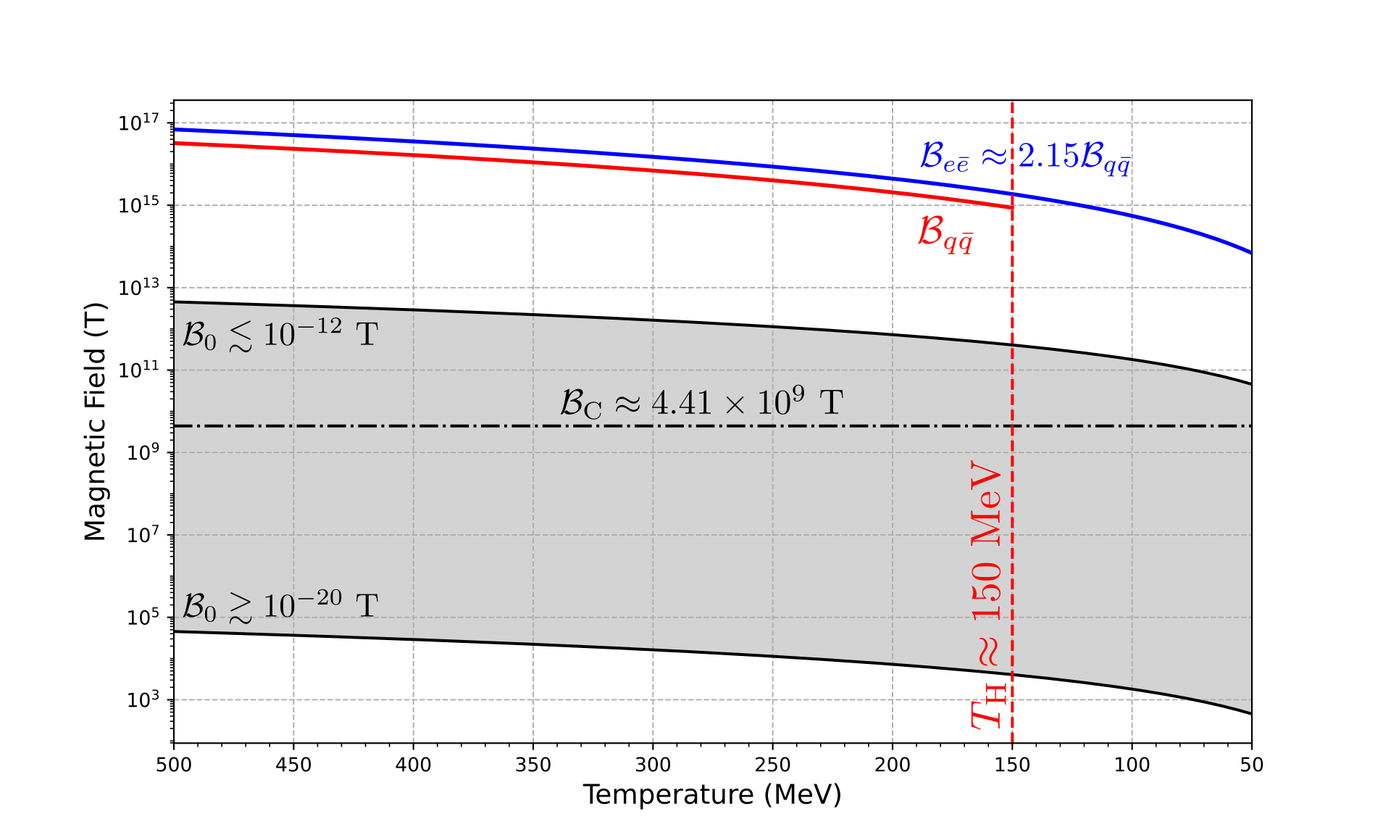
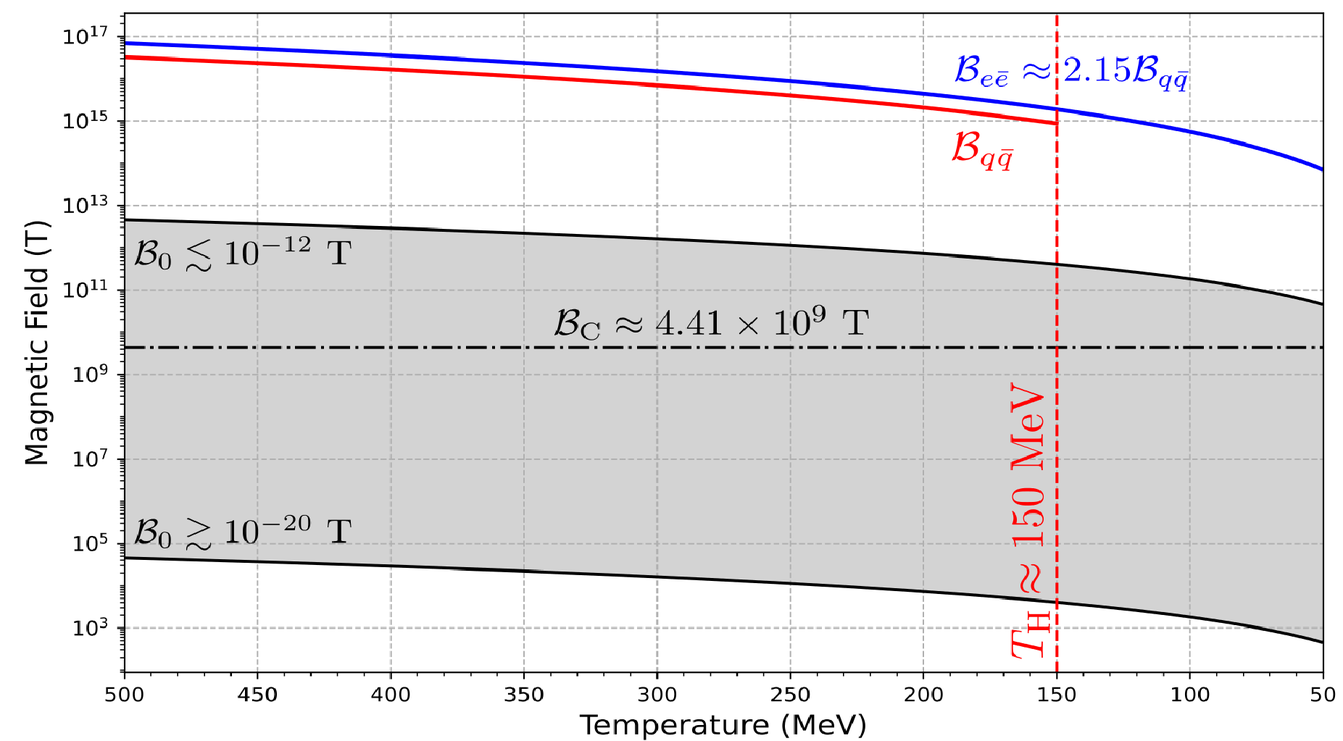
Updates from Overleaf

diff --git a/short-note-qcd.tex b/short-note-qcd.tex
@@ -51,7 +51,7 @@
 \newcommand*{\beqn}{\begin{equation}}
 \newcommand*{\eeqn}{\end{equation}}
 \newcommand{\beql}[1]{\begin{equation} \label{#1}}
-\newcommand{\eeql}[1]{\label{#1} \end{equation} }  
+\newcommand{\eeql}[1]{\label{#1} \end{equation} } 
 \newcommand{\req}[1]{Eq.\,(\ref{#1})}
 \newcommand{\rf}[1]{Fig.\,{\ref{#1}}}
 \newcommand{\rt}[1]{Table~{\ref{#1}}}
@@ -60,8 +60,8 @@
 \newcommand{\rapp}[1]{Appendix~{\ref{#1}}}
 \newcommand{\mydoi}[2]{\href{http://dx.doi.org/#2}{#1}}
 \newcommand{\E}{\mathrm{e}}
-\newcommand{\ie}{{\em i.e.\/}}  
-\newcommand{\eg}{{\em e.g.\/}}  
+\newcommand{\ie}{{\em i.e.\/}} 
+\newcommand{\eg}{{\em e.g.\/}} 
 \newcommand{\ms}[1]{\rule[-#1mm]{0mm}{0mm}}
 \newcommand{\grad}{\operatorname{grad}}
 \newcommand{\diag}{\mathrm{diag}}
@@ -90,20 +90,20 @@
 \begin{document}
 
 \title{Short note on spin magnetization in QGP
-    }
+ }
 
 \author{
-    Andrew~Steinmetz${}^1$\orc{\orcAJS},
-    Johann~Rafelski${}^1$\orc{\orcJR}
-    }
+ Andrew~Steinmetz${}^1$\orc{\orcAJS},
+ Johann~Rafelski${}^1$\orc{\orcJR}
+ }
 
 \institute{
-    ${}^1$Department of Physics, The University of Arizona, Tucson, AZ, 85721, USA\\
-    }
+ ${}^1$Department of Physics, The University of Arizona, Tucson, AZ, 85721, USA\\
+ }
 
 \abstract{
-    We outline the theory of spin QGP (quark-gluon plasma) magnetization. We explore the primordial epoch shortly after the Big-Bang within temperatures of \(150\) MeV to \(500\) MeV, also of interest to laboratory experiments. The ferro-magnetized fermion gas we consider consists of (light) quarks in laboratory QGP, and also leptons (electrons) for the case of the primordial Universe.  We show that a fully spin-polarized up-quark gas could generate cosmic magnetic fields of approximately \(10^{16}\) Tesla.  We suggest that even a weakly spin-polarized  gas would have a profound impact on properties of primordial Universe which can be explored in laboratory QGP experiments. We present details of how  the magnetization is obtained using a grand partition function approach. This requires evaluating slowly convergent magnetized Fermi-Dirac integrals. 
-    }
+ We outline the theory of spin QGP (quark-gluon plasma) magnetization. We explore the primordial epoch shortly after the Big-Bang within temperatures of \(150\) MeV to \(500\) MeV, also of interest to laboratory experiments. The ferro-magnetized fermion gas we consider consists of (light) quarks in laboratory QGP, and also leptons (electrons) for the case of the primordial Universe. We show that a fully spin-polarized up-quark gas could generate cosmic magnetic fields of approximately \(10^{16}\) Tesla. We suggest that even a weakly spin-polarized gas would have a profound impact on properties of primordial Universe which can be explored in laboratory QGP experiments. We present details of how the magnetization is obtained using a grand partition function approach. This requires evaluating slowly convergent magnetized Fermi-Dirac integrals. 
+ }
 
 \maketitle
 %%%%%%%%%%%%%%%%%%%%%%%%
@@ -112,54 +112,57 @@
 \section{Introduction}
 \label{sec:introduction}
 %%%%%%%%%%%%%%%%%%%%%%%%
-The color deconfined QGP (quark-gluon plasma) has been studied in laboratory experiments now for several decades; this state of matter  existed in the Universe for nearly \(25~\mathrm{\mu s}\) after the Big-Bang~\cite{Rafelski:2019twp,Rafelski:2023emw,Rafelski:2024fej}. However, there are differences between the QGP produced in the early Universe versus QGP produced in laboratory heavy-ion collisions. Of greatest importance is the presence of the lepton abundance in the early Universe. Laboratory formed QGP drops are too short-lived and too small to support a comparable high-density of leptons. Furthermore, analysis of particle production in laboratory experiments shows~\cite{Letessier:2005qe} how at highest available collisions energies we explore QGP in relatively low baryon density, near to the condition of primordial Universe. On the other hand, at lower collision energies, we study baryon-rich conditions also expected to be present in astrophysical compact objects~\cite{Ghosh:2025sjn}. At CERN laboratory in Geneva both these reaction energy limits are explored in ongoing ALICE, CMS, and NA61,  experiments, respectively. 
+
  
+Recently we have explored the possibility that cosmic magnetism originates in spin polarization of electron-positron pairs~\cite{Steinmetz:2023nsc,Steinmetz:2023ucp} near to Big-Bang Nucleosynthesis~\cite{Grayson:2023flr,Grayson:2024uwg} epoch. We now approach the possible role of light quark-antiquark pairs in the QGP (quark-gluon plasma) phase near to hadronization condition, pushing the possible source of magnetization further back in time to before matter hadronization. This is shown in Fig.~\ref{Figure_1} over the temperature range 50 to 500~MeV. The gray-shaded region bounded by black lines represents the allowed primordial magnetic field (PMF) range, obtained by scaling today’s intergalactic magnetic field bounds (\(\mathcal{B}_{0} = 10^{-20}-10^{-12}\)~T)~\cite{Planck:2015zrl,Jedamzik:2018itu}. For details see Ref.~\cite{Steinmetz:2023nsc}. 
 
-Recently we have explored the possibility that cosmic magnetism originates in spin polarization of electron-positron pairs~\cite{Steinmetz:2023nsc,Steinmetz:2023ucp} near to Big-Bang Nucleosynthesis~\cite{Grayson:2023flr,Grayson:2024uwg} epoch. We now approach the possible role of light quark-antiquark pairs in QGP phase near to hadronization condition, pushing the possible source of magnetization further back in time to before matter hadronization. This is shown in Fig.~\ref{Figure_1} over the temperature range 50 to 500~MeV. The gray-shaded region bounded by black lines represents the allowed primordial magnetic field (PMF) range, obtained by scaling today’s intergalactic magnetic field bounds (\(\mathcal{B}_{0} = 10^{-20}-10^{-12}\)~T)~\cite{Planck:2015zrl,Jedamzik:2018itu}. For details see Ref.~\cite{Steinmetz:2023nsc}. The black dash-dotted horizontal line marks the Schwinger critical field, \(\mathcal{B}_\mathrm{C}\approx4.41\times10^{9}~\mathrm{T}\). Superimposed are the maximum quark magnetization (red curve) and electron magnetization (blue curve) which are calculated below. The quark magnetization estimation ends at hadronization which is marked by the red dashed vertical line at \(T_\mathrm{H}\approx150\MeV\).
-
-\begin{figure}
+\begin{figure}%[b]
 \centerline{
-\includegraphics[width=1.0\columnwidth]{python/Figure_1.png}}
+\includegraphics[width=0.885\columnwidth]{python/Figure_1.png}}
 \caption{\label{Figure_1}Temperature dependence of several key magnetic field contributions in the early universe during the QGP era.}
 \end{figure}
 
-We now expand this effort consider the role of light quark magnetization in the primordial QGP Universe, focusing on the interplay between quarks, leptons, and magnetic fields. The presence of strong magnetic fields in the primordial QGP Universe could have significantly affected the equilibrium properties of Standard Model particles in the earliest moments after the Big-Bang~\cite{Durrer:2013pga,Subramanian:2015lua}. EM response of QGP is of considerable theoretical interest~\cite{Grayson:2022asf,Shovkovy:2022bnd,Ghosh:2024fkg} and such magnetic fields have long been thought to be connected to baryon asymmetry~\cite{Vachaspati:1991nm,Baym:1995fk}. Chiral magnetism in QGP has also been studied~\cite{Fukushima:2008xe,Boyarsky:2011uy,Bali:2011qj}.
+The black dash-dotted horizontal line in Fig.~\ref{Figure_1} marks the Schwinger critical field, \(\mathcal{B}_\mathrm{C}\approx4.41\times10^{9}~\mathrm{T}\). Superimposed are the maximum quark magnetization (red curve) and electron magnetization (blue curve) which are calculated below. The quark magnetization estimation ends well before hadronization which is marked by the red dashed vertical line at \(T_\mathrm{H}\approx150\MeV\). This is so since near to the phase transformation at \(T_\mathrm{H}\) much less magnetic heavy hadrons form. 
+
+We understand the primordial deconfined QGP phase of matter due to several decades of experimental effort; this new state of matter existed in the Universe for nearly \(25~\mathrm{\mu s}\) after the Big-Bang~\cite{Rafelski:2019twp,Rafelski:2023emw,Rafelski:2024fej}. However, there are differences between the QGP produced in the early Universe versus QGP produced in laboratory heavy-ion collisions. Of greatest importance is the presence of the lepton abundance in the early Universe. Laboratory formed QGP drops are too short-lived and too small to support a comparable high-density of leptons. The net baryon content of QGP-drops formed in laboratory experiments can also be vastly different from the early Universe condition where baryon excess over antibaryons is at nano-scale. A high QGP baryon content is found at relatively low heavy ion collision energies near to the presumed threshold for QGP formation~\cite{Letessier:2005qe}. In such typically fixed target (NA61 today) CERN experiments baryon-rich condition is explored, also expected to be present in astrophysical compact objects~\cite{Ghosh:2025sjn}. However, as the collision energy increases towards the highest available, the incoming nuclear valance quarks escape from the QGP drop: At the CERN-LHC created QGP-drops as observed by ALICE and CMS experiments relatively low net baryon density near to the condition prevailing in the primordial Universe is found~\cite{Letessier:2005qe}. 
+
+In this work we expand our prior spin magnetization study~\cite{Steinmetz:2023nsc,Steinmetz:2023ucp} to consider the role of light quark magnetization in the primordial QGP Universe, focusing on the interplay between quarks, leptons, and magnetic fields. The presence of strong magnetic fields in the primordial QGP Universe could have significantly affected the equilibrium properties of Standard Model particles in the earliest moments after the Big-Bang~\cite{Durrer:2013pga,Subramanian:2015lua}. EM response of QGP is of considerable theoretical interest~\cite{Grayson:2022asf,Shovkovy:2022bnd,Ghosh:2024fkg} and such magnetic fields have long been thought to be connected to baryon asymmetry~\cite{Vachaspati:1991nm,Baym:1995fk}. Chiral magnetism in QGP has also been studied~\cite{Fukushima:2008xe,Boyarsky:2011uy,Bali:2011qj}.
  
 We first argue that quark magnetism in QGP cannot be ignored. In Table~\ref{tab:particle_properties}, we list the here relevant properties of select particle present in the QGP era in the Universe. The magnetic moment \(\mu\) is given in units of the Bohr magneton \(\mu_{B}\equiv e\hbar/2m_{e}\approx5.788\times10^{-11}\ \mathrm{MeV\;T}^{-1}\). The degrees of freedom (dof.) \(\mathfrak{g}=n_{S}\times n_{C}\) is the number of spin \(n_\mathrm{S}\) and color \(n_\mathrm{C}\) states available to the particle. We evaluated the magneton with gyromagnetic factor \(g=2\), while the strong interaction corrections suggest a larger value for quarks. For each particle seen in Table~\ref{tab:particle_properties} there is an antiparticle with opposite sign of magnetic moment. 
 \begin{table}[h]
-    \centering
-    \caption{Properties of select particles}
-    \label{tab:particle_properties}
-    \begin{tabular}{@{}lllll@{}}
-        \toprule
-        \textbf{Particle} & \textbf{Mass} \([\approx\mathrm{MeV}]\) & \textbf{Charge} & \textbf{Magneton} \([\mu/\mu_{B}]\) & \(\mathfrak{g}\) \textbf{dof.} \\ 
-        \midrule
-        Electron  \((e)\)   & 0.511  & \(-1\)    & \(-1\)         & 2 \\
-        Muon      \((\mu)\) & 105.7  & \(-1\)    & \(-0.00484\)   & 2 \\
-        Tau       \((\mu)\) & 1776.9 & \(-1\)    & \(-0.000288\)   & 2 \\
-        \midrule
-        Up        \((u)\)   & 2.2    & \(+2/3\)  & \(+0.155\)     & 6 \\
-        Down      \((d)\)   & 4.7    & \(-1/3\)  & \(-0.0362\)    & 6 \\
-        Strange   \((s)\)   & 96     & \(-1/3\)  & \(-0.00177\)   & 6 \\
-        Charm     \((c)\)   & 1270   & \(+2/3\)  & \(+0.000268\)  & 6 \\ 
-        \bottomrule
-    \end{tabular}
+ \centering
+ \caption{Properties of select particles}
+ \label{tab:particle_properties}
+ \begin{tabular}{@{}lllll@{}}
+ \toprule
+ \textbf{Particle} & \textbf{Mass} \([\approx\mathrm{MeV}]\) & \textbf{Charge} & \textbf{Magneton} \([\mu/\mu_{B}]\) & \(\mathfrak{g}\) \textbf{dof.} \\ 
+ \midrule
+ Electron \((e)\) & 0.511 & \(-1\) & \(-1\) & 2 \\
+ Muon \((\mu)\) & 105.7 & \(-1\) & \(-0.00484\) & 2 \\
+ Tau \((\mu)\) & 1776.9 & \(-1\) & \(-0.000288\) & 2 \\
+ \midrule
+ Up \((u)\) & 2.2 & \(+2/3\) & \(+0.155\) & 6 \\
+ Down \((d)\) & 4.7 & \(-1/3\) & \(-0.0362\) & 6 \\
+ Strange \((s)\) & 96 & \(-1/3\) & \(-0.00177\) & 6 \\
+ Charm \((c)\) & 1270 & \(+2/3\) & \(+0.000268\) & 6 \\ 
+ \bottomrule
+ \end{tabular}
 \end{table}
 
 The electron-positron and light-quark gases, especially up-quarks, have been in the primordial Universe magnetically the most relevant particles in the QGP era due to their charge and low mass. The up-quark content is comparable to that of electrons since both are very relativistic particles considering \(k_{B}T=300\,\mathrm{MeV}\gg m_i c^{2}\). Their number densities \(n_{i}\) would follow a massless fermion gas 
 \begin{align}
-    n_{i}(T) = \mathfrak{g}_{i}\frac{3}{4}\frac{\zeta(3)}{\pi^{2}}\left(\frac{k_{B}T}{\hbar c}\right)^{3}\,,
+ n_{i}(T) = \mathfrak{g}_{i}\frac{3}{4}\frac{\zeta(3)}{\pi^{2}}\left(\frac{k_{B}T}{\hbar c}\right)^{3}\,,
 \end{align}
 where \(\zeta(3)\approx1.202\) is the Riemann-Zeta function. The ratio of contribution to magnetism is thus solely rooted in the magnetic moments of quarks and their greater degeneracy. The estimated total cosmic magnetic flux strength is therefore derived from the sum of external flux density, and the medium polarization of the most magnetically active particles \((i)\) and antiparticles \((\bar{i})\), given by
 \begin{align}
-    \mathcal{B}_\mathrm{total}=\mathcal{B}_\mathrm{ext.}+\mu_{0}\sum_{i} M_{i\bar{i}}\,,
+ \mathcal{B}_\mathrm{total}=\mathcal{B}_\mathrm{ext.}+\mu_{0}\sum_{i} M_{i\bar{i}}\,,
 \end{align}
 where \(M=\mathcal{M}/V\) is the magnetic moment density, \(\mathcal{M}\) is the magnetization and \(\mu_{0}\) is the vacuum permeability (not to be confused with magnetic moment). Therefore at \(k_{B}T=300~\mathrm{MeV}\) for up-quark and electrons, we obtain as an upper bound
 \begin{align}
-    \mu_{0}M_{u\bar{u}}\vert_{T=300\MeV} = \mu_{0}\mathcal{M}_{u\bar{u}}/V = \mu_{0}\mu_{u}(n_{u}+n_{\bar{u}})  \simeq 6.958\times10^{15}~\mathrm{T} \,,\qquad
-    M_{e\bar{e}}=M_{u\bar{u}}\frac{\mathfrak{g}_{e}}{\mathfrak{g}_{u}} \frac{\mu_{e}}{\mu_{u}} \simeq 2.15 M_{u\bar{u}}
+ \mu_{0}M_{u\bar{u}}\vert_{T=300\MeV} = \mu_{0}\mathcal{M}_{u\bar{u}}/V = \mu_{0}\mu_{u}(n_{u}+n_{\bar{u}}) \simeq 6.958\times10^{15}~\mathrm{T} \,,\qquad
+ M_{e\bar{e}}=M_{u\bar{u}}\frac{\mathfrak{g}_{e}}{\mathfrak{g}_{u}} \frac{\mu_{e}}{\mu_{u}} \simeq 2.15 M_{u\bar{u}}
 \end{align}
-In the last estimate we assumed that all strongly interacting quark magnetic moments align in a suitable manner with the electron generated magnetic field to amplify it further. This type of ferromagnetic alignment  amplifies the lepton generated magnetization  \(\sim 10^{6}\) times the critical magnetic field strength \(\mathcal{B}_\mathrm{C}\equiv m_{e}^{2}c^{2}/e\hbar\approx 4.41\times10^{9}\ \mathrm{T}\). This is \(\sim 10^5\) times stronger than the upper estimated surface field strength of magnetars~\cite{Kaspi:2017fwg}.
+In the last estimate we assumed that all strongly interacting quark magnetic moments align in a suitable manner with the electron generated magnetic field to amplify it further. This type of ferromagnetic alignment amplifies the lepton generated magnetization \(\sim 10^{6}\) times the critical magnetic field strength \(\mathcal{B}_\mathrm{C}\equiv m_{e}^{2}c^{2}/e\hbar\approx 4.41\times10^{9}\ \mathrm{T}\). This is \(\sim 10^5\) times stronger than the upper estimated surface field strength of magnetars~\cite{Kaspi:2017fwg}.
 
 This discussion suggests that even a weakly polarized primordial lepton-quark Fermi gas would have a significant impact on the early Universe, as shown in Fig.~\ref{Figure_1}, with light quarks contributing on par with leptons which while dominant (within about a factor of 2) are not the sole source of Fermi spin magnetization. We provide in the following an theoretical outline and point to where future efforts may be directed. For recent work on spin polarization modeled in relativistic hydrodynamics, see~\cite{Florkowski:2024cif,Bhadury:2024whs,Becattini:2024uha,Singh:2024cub}.
 
@@ -169,41 +172,41 @@ This discussion suggests that even a weakly polarized primordial lepton-quark Fe
 %%%%%%%%%%%%%%%%%%%%%%%%
 We consider a free but magnetized fermion gas in the temperature range \(500\MeV>T>150\MeV\) composed of light-quark species \(q \in {u,d}\) and electrons (and their antiparticles). As the magneton scales with \(\mu \propto 1/m\), these species are magnetically the most relevant due to their lighter masses (see Table~\ref{tab:particle_properties}) and consequently larger magnetic moments. For relativistic species~\cite{Elze:1980er}, under conditions of thermal and chemical equilibrium (as was the case in the primordial Universe) the chemical potential \(\eta\) of each particle is opposite in sign to that of its antiparticle
 \begin{align}
-    \eta_{q}=T\ln\lambda_{q}\,,\qquad
-    \lambda_{q}=1/\lambda_{\bar{q}}\,,\qquad
-    \eta_{q}=-\eta_{\bar{q}}\,,
+ \eta_{q}=T\ln\lambda_{q}\,,\qquad
+ \lambda_{q}=1/\lambda_{\bar{q}}\,,\qquad
+ \eta_{q}=-\eta_{\bar{q}}\,,
 \end{align}
 where \(\lambda\) is the fugacity. The magnetic dipole of a particle is also opposite in sign to its antiparticle $\mu_{i}=-\mu_{\bar{i}}$ as charge is flipped. Any deviation from this condition would represent a violation of CPT~\cite{Colladay:1996iz,Bluhm:1997ci,BASE:2016yuo}. During this period, particle-antiparticle pairs of (anti)quarks were freely produced and annihilated through photon- and gluon-mediated processes, represented by \(q+\bar{q}\rightleftharpoons2\gamma\) and \(q+\bar{q}\rightleftharpoons2g\). We note that the entropy conserving expansion of the Universe is extremely slow compared to the relevant collision reaction times during the QGP epoch~\cite{Yang:2024ret}.
 
 Accounting for the internal energy $U$ of magnetized QGP, including the energies of neutrinos~\cite{Birrell:2014ona}, involves the following properties: 
 \begin{itemize}
-    \item[(a)] The energy of adding or removing a baryon $\eta_{B}B$ where \(B\) is baryon number,
-    \item[(b)] the energy of adding or removing a lepton $\eta_{\ell}(N_{\ell}-N_{\ell})$ with $\ell\in {e,\nu}$, 
-    \item[(c)] the magnetic energy $\mathcal{M}\mathcal{B}$ where $\mathcal{M}$ is the net magnetization and $\mathcal{B}$ is the magnetic field strength and
-    \item[(d)] the electromagnetic energy density generated by the external magnetic field.
+ \item[(a)] The energy of adding or removing a baryon $\eta_{B}B$ where \(B\) is baryon number,
+ \item[(b)] the energy of adding or removing a lepton $\eta_{\ell}(N_{\ell}-N_{\ell})$ with $\ell\in {e,\nu}$, 
+ \item[(c)] the magnetic energy $\mathcal{M}\mathcal{B}$ where $\mathcal{M}$ is the net magnetization and $\mathcal{B}$ is the magnetic field strength and
+ \item[(d)] the electromagnetic energy density generated by the external magnetic field.
 \end{itemize}
 
 The dependency of $U$ on $\mathcal{M}$ reflects that $\mathcal{B}$ is the incremental energy cost to change the magnetization by flipping the spin of a particle~\cite{Bali:2014kia}. Therefore, this makes magnetization $\mathcal{M}$ an extensive property of the system which changes which particle number. We see this explicitly by writing the magnetization as the sum over all particles $i\in{1,\ldots,k}$
 \begin{align}
-    \label{eq:dipole}
-    \mathcal{M} = \sum_{i=1}^{k}(\mu_{i}N_{i}^{\uparrow} + \mu_{\bar{i}}N_{\bar{i}}^{\uparrow} - \mu_{i}N_{i}^{\downarrow} - \mu_{\bar{i}}N_{\bar{i}}^{\downarrow})\,,\qquad
-    N_{i} = N_{i}^{\uparrow} + N_{i}^{\downarrow}\,,
+ \label{eq:dipole}
+ \mathcal{M} = \sum_{i=1}^{k}(\mu_{i}N_{i}^{\uparrow} + \mu_{\bar{i}}N_{\bar{i}}^{\uparrow} - \mu_{i}N_{i}^{\downarrow} - \mu_{\bar{i}}N_{\bar{i}}^{\downarrow})\,,\qquad
+ N_{i} = N_{i}^{\uparrow} + N_{i}^{\downarrow}\,,
 \end{align}
 where $\mu_{i}$ is the magnetic dipole moment per particle. The $\uparrow\downarrow$ notation refers to spin-up $(\uparrow)$ and spin-down $(\downarrow)$ states along the direction of the external field. Therefore, $N_{i}^{\uparrow\downarrow}$ refers to the $i$-th constituent population number in either spin-up or spin-down orientation. The signs of each term in \req{eq:dipole} arises from the sign of the spin eigenvalue. While \req{eq:dipole} presumably includes contributions from each particle with a magnetic dipole, we expect the magnetization to be dominated by electrons(positrons) and the lightest quarks due to their charge and low mass therefore we sum over $i\in{u,d,e}$
 \begin{align}
-    \notag\mathcal{M} \approx &+|\mu_{u}|(N_{u}^{\uparrow}-N_{\bar{u}}^{\uparrow})-|\mu_{u}|(N_{u}^{\downarrow}-N_{\bar{u}}^{\downarrow})\\
-    \notag &-|\mu_{d}|(N_{d}^{\uparrow}-N_{\bar{d}}^{\uparrow})+|\mu_{d}|(N_{d}^{\downarrow}-N_{\bar{d}}^{\downarrow})\\
-    \label{eq:dipole2}
-    &-|\mu_{e}|(N_{e}^{\uparrow}-N_{\bar{e}}^{\uparrow})+|\mu_{e}|(N_{e}^{\downarrow}-N_{\bar{e}}^{\downarrow})\,.
+ \notag\mathcal{M} \approx &+|\mu_{u}|(N_{u}^{\uparrow}-N_{\bar{u}}^{\uparrow})-|\mu_{u}|(N_{u}^{\downarrow}-N_{\bar{u}}^{\downarrow})\\
+ \notag &-|\mu_{d}|(N_{d}^{\uparrow}-N_{\bar{d}}^{\uparrow})+|\mu_{d}|(N_{d}^{\downarrow}-N_{\bar{d}}^{\downarrow})\\
+ \label{eq:dipole2}
+ &-|\mu_{e}|(N_{e}^{\uparrow}-N_{\bar{e}}^{\uparrow})+|\mu_{e}|(N_{e}^{\downarrow}-N_{\bar{e}}^{\downarrow})\,.
 \end{align}
 
 We recognize that \req{eq:dipole2} contains terms representing asymmetry in the spin alignment though we can organize them in two different ways: (a) We group terms of the same spin alignment or (b) we group terms of matter and antimatter. The second approach may allow definition of spin-asymmetry in terms of conserved quantities characterizing spin angular momentum. We define net spin-asymmetry numbers $\delta_{i}^{\uparrow\downarrow}$ and write
 \begin{align}
-    \delta_{i}^{\uparrow\downarrow} &\equiv N_{i}^{\uparrow\downarrow}-N_{\bar{i}}^{\uparrow\downarrow}\,,\\
-    \mathcal{M} &= 
-    +|\mu_{u}|(\delta_{u}^{\uparrow}-\delta_{u}^{\downarrow})
-    -|\mu_{d}|(\delta_{d}^{\uparrow}-\delta_{d}^{\downarrow})
-    -|\mu_{e}|(\delta_{e}^{\uparrow}-\delta_{e}^{\downarrow})\,.
+ \delta_{i}^{\uparrow\downarrow} &\equiv N_{i}^{\uparrow\downarrow}-N_{\bar{i}}^{\uparrow\downarrow}\,,\\
+ \mathcal{M} &= 
+ +|\mu_{u}|(\delta_{u}^{\uparrow}-\delta_{u}^{\downarrow})
+ -|\mu_{d}|(\delta_{d}^{\uparrow}-\delta_{d}^{\downarrow})
+ -|\mu_{e}|(\delta_{e}^{\uparrow}-\delta_{e}^{\downarrow})\,.
 \end{align}
 The net spin-asymmetry warrants is the asymmetry of particles and antiparticles of the same spin. Therefore $\delta_{u}^{\uparrow}\neq0$ represents a situation where there are more up quarks than up antiquarks in the spin-up $\uparrow$ state.
 
@@ -215,34 +218,34 @@ The partition function allows us to calculate various thermodynamic quantities b
 
 The relevant contributions to the magnetized primordial plasma arise from the quarks, gluons, leptons, and the vacuum. The grand potential in terms of the grand partition function $\ln\mathcal{Z}$ is
 \begin{align}
-    \label{eq:parts}
-    \mathcal{F} &= -T\ln\mathcal{Z}\,,\\
-    \ln\mathcal{Z}_{\mathrm{total}} &=
-    \ln\mathcal{Z}_{\mathrm{quarks}} +
-    \ln\mathcal{Z}_{\mathrm{gluons}} +
-    \ln\mathcal{Z}_{\mathrm{leptons}}+
-    \ln\mathcal{Z}_{\mathrm{vac.}}+\ldots 
+ \label{eq:parts}
+ \mathcal{F} &= -T\ln\mathcal{Z}\,,\\
+ \ln\mathcal{Z}_{\mathrm{total}} &=
+ \ln\mathcal{Z}_{\mathrm{quarks}} +
+ \ln\mathcal{Z}_{\mathrm{gluons}} +
+ \ln\mathcal{Z}_{\mathrm{leptons}}+
+ \ln\mathcal{Z}_{\mathrm{vac.}}+\ldots 
 \end{align}
 
 We consider a homogeneous magnetic field domain defined along the $z$-axis with magnetic field magnitude $\mathcal{B}$. The volume $V=L^{3}$ is not necessarily infinite and is to be considered the size of the homogeneous domain such that $\partial\mathcal{B}_{i}/\partial x_{j}\approx0$ for \(i,j \in {1,2,3}\). For a fermion species of charge $Q$, mass $m$, and g-factor $g$, the energy eigenvalues of the magnetized particles is given by~\cite{Steinmetz:2018ryf}
 \begin{align}
-    \label{eq:energystates}
-    E(p_{z},n,s)=\sqrt{m^{2}+p_{z}^{2}+2|Q|\mathcal{B}\left(n+\frac{1}{2}-\frac{g}{2}s\right)}\,,
+ \label{eq:energystates}
+ E(p_{z},n,s)=\sqrt{m^{2}+p_{z}^{2}+2|Q|\mathcal{B}\left(n+\frac{1}{2}-\frac{g}{2}s\right)}\,,
 \end{align}
 where $E$ are the relativistic Landau energy eigenvalues. The micro-state energies depend on longitudinal momentum \(p_{z}\), spin $s\in\pm1/2$, and orbital $n\in0,1,2,3,\ldots$ Landau quantum number. It is helpful to introduce a spin-dependent auxiliary mass $m(s)$ via
 \begin{align}
-    \label{eq:spinmass}
-    m^{2}(s) &\equiv m^{2} - |Q|\mathcal{B}\,g s\,.
+ \label{eq:spinmass}
+ m^{2}(s) &\equiv m^{2} - |Q|\mathcal{B}\,g s\,.
 \end{align}
 
 The power and utility of the partition function in statistical systems is found by examining the Fermi integral in various limits and expansions. We define the Fermi-Dirac distribution noting that fugacity \(\lambda\) is related to chemical potential in the usual way via \(\eta = T\ln\lambda\). Thus,
 \begin{align}
-    F\left(E - \sigma\eta\right) = \frac{1}{e^{(E - \sigma\eta)/T} + 1}\,.
+ F\left(E - \sigma\eta\right) = \frac{1}{e^{(E - \sigma\eta)/T} + 1}\,.
 \end{align}
 We can express \req{eq:parts} by utilizing Euler-Maclaurin integration (see details in Ref.~\cite{Steinmetz:2023nsc}) writing the partition function in spherical coordinates \(d\mathbf{p}^{3}=4\pi p^{2}dp\). We substitute coordinates and integrate by parts yielding
 \begin{align}
-    \label{eq:partition_byparts}
-    \ln\mathcal{Z} &= \frac{2 n_\mathrm{C}V}{(2\pi)^{2}} \sum_{s}^{\pm1/2}\sum_{\sigma}^{\pm1}\int_{0}^{\infty} \frac{dp}{3T} \, \frac{p^4}{E}F\left(E - \sigma\eta\right)\,.
+ \label{eq:partition_byparts}
+ \ln\mathcal{Z} &= \frac{2 n_\mathrm{C}V}{(2\pi)^{2}} \sum_{s}^{\pm1/2}\sum_{\sigma}^{\pm1}\int_{0}^{\infty} \frac{dp}{3T} \, \frac{p^4}{E}F\left(E - \sigma\eta\right)\,.
 \end{align}
 The form of the partition function expressed by \req{eq:partition_byparts} more directly lets us evaluate thermodynamic quantities in terms of Fermi integrals~\cite{Elze:1980er,Birrell:2024bdb}. \req{eq:partition_byparts} also sums over (anti)matter states \(\sigma \in {\pm1}\). However, integrating over momentum is not an ideal description as relativistic expansions in momentum yield series that are only semi-convergent. 
 
@@ -252,28 +255,28 @@ The form of the partition function expressed by \req{eq:partition_byparts} more 
 %%%%%%%%%%%%%%%%%%%%%%%%
 To simplify the integration process, we introduce dimensionless variables by normalizing relevant physical quantities with the temperature \( T \). This approach renders the equations dimensionless and highlights the thermal contributions explicitly. The dimensionless variables are defined as
 \begin{align}
-    \label{eq:dimensionless_variables}
-    p_{T} = \frac{p}{T}, \qquad E_{T}(p_{T},s) = \frac{E(p,s)}{T}, \qquad \eta_{T} = \frac{\eta}{T}\,, \qquad m_{T}(s) = \frac{m(s)}{T}\,.
+ \label{eq:dimensionless_variables}
+ p_{T} = \frac{p}{T}, \qquad E_{T}(p_{T},s) = \frac{E(p,s)}{T}, \qquad \eta_{T} = \frac{\eta}{T}\,, \qquad m_{T}(s) = \frac{m(s)}{T}\,.
 \end{align}
 This defines momentum-like \(p_{T}\), energy-like \(E_{T}\), chemical potential-like \(\eta_{T}\) and mass-like \(m_{T}\) parameters. Using the relativistic dispersion relation, the dimensionless energy \( E_{T} \) can be expressed in terms of \( p_{T} \) and \( m_{T} \)
 \begin{align}
-    E_{T} = \frac{E}{T} = \sqrt{p_{T}^{2} + m_{T}^{2}}\,.
+ E_{T} = \frac{E}{T} = \sqrt{p_{T}^{2} + m_{T}^{2}}\,.
 \end{align}
 The differential \( dp_{T} \) and \( dE_{T} \) transform as
 \begin{align}
-    dp = T \, dp_{T}\,,\qquad p_{T}dp_{T} = E_{T} dE_{T}\,,
+ dp = T \, dp_{T}\,,\qquad p_{T}dp_{T} = E_{T} dE_{T}\,,
 \end{align}
 and the limits of integration change accordingly
 \begin{equation}
-    p_{T} = 0 \quad \Rightarrow \quad E_{T} = m_{T}, \quad p_{T} \to \infty \quad \Rightarrow \quad E_{T} \to \infty.
+ p_{T} = 0 \quad \Rightarrow \quad E_{T} = m_{T}, \quad p_{T} \to \infty \quad \Rightarrow \quad E_{T} \to \infty.
 \end{equation}
 Substituting these dimensionless variables and differentials into the partition function \( \ln\mathcal{Z} \), we obtain expressions for both momentum-like \(p_{T}\) integration and energy-like \(E_{T}\) integration
 \begin{align}
-    \label{eq:dimensionless_partition}
-    \ln\mathcal{Z} 
-    &= \frac{2 n_\mathrm{C} V}{(2\pi)^{2}} \frac{T^{3}}{3} \sum_{s}^{\pm1/2}\sum_{\sigma}^{\pm1} \int_{0}^{\infty} dp_{T} \, \frac{p_{T}^{4}}{\sqrt{p_{T}^{2} + m_{T}^{2}}} \, F\left(\sqrt{p_{T}^{2} + m_{T}^{2}} - \sigma\eta_{T}\right)\,,\\
-    \label{eq:dimensionless_partition2}
-    &= \frac{2 n_\mathrm{C} V}{(2\pi)^{2}} \frac{T^{3}}{3} \sum_{s}^{\pm1/2}\sum_{\sigma}^{\pm1} \int_{m_{T}}^{\infty} dE_{T} \, (E_{T}^2-m_{T}^2)^{3/2} F\left(E_{T} - \sigma\eta_{T}\right)\,.
+ \label{eq:dimensionless_partition}
+ \ln\mathcal{Z} 
+ &= \frac{2 n_\mathrm{C} V}{(2\pi)^{2}} \frac{T^{3}}{3} \sum_{s}^{\pm1/2}\sum_{\sigma}^{\pm1} \int_{0}^{\infty} dp_{T} \, \frac{p_{T}^{4}}{\sqrt{p_{T}^{2} + m_{T}^{2}}} \, F\left(\sqrt{p_{T}^{2} + m_{T}^{2}} - \sigma\eta_{T}\right)\,,\\
+ \label{eq:dimensionless_partition2}
+ &= \frac{2 n_\mathrm{C} V}{(2\pi)^{2}} \frac{T^{3}}{3} \sum_{s}^{\pm1/2}\sum_{\sigma}^{\pm1} \int_{m_{T}}^{\infty} dE_{T} \, (E_{T}^2-m_{T}^2)^{3/2} F\left(E_{T} - \sigma\eta_{T}\right)\,.
 \end{align}
 In this formulation, it is evident that the logarithm of the partition function scales as \( \ln\mathcal{Z} \propto T^{3} \), consistent with the expected thermodynamic behavior for a relativistic gas in three spatial dimensions.
 
@@ -283,35 +286,35 @@ In this formulation, it is evident that the logarithm of the partition function 
 %%%%%%%%%%%%%%%%%%%%%%%%
 Given the dimensionless form of the partition function \req{eq:dimensionless_partition}, we proceed to evaluate the magnetization. We emphasize that the dimensionless mass \(m_{T}(\mathcal{B},s)\) depends on the magnetic field and spin via \req{eq:spinmass}. Taking the derivative of the free energy \(\mathcal{F} = -T \ln\mathcal{Z}\) with respect to the magnetic field \(\mathcal{B}\), we obtain the magnetization
 \begin{align}
-    \label{eq:magnetization_def}
-    \mathcal{M} = \left( \frac{\partial \mathcal{F}}{\partial \mathcal{B}} \right) = -T \left( \frac{\partial \ln\mathcal{Z}}{\partial \mathcal{B}} \right)\,.
+ \label{eq:magnetization_def}
+ \mathcal{M} = \left( \frac{\partial \mathcal{F}}{\partial \mathcal{B}} \right) = -T \left( \frac{\partial \ln\mathcal{Z}}{\partial \mathcal{B}} \right)\,.
 \end{align} 
 Since \(\ln\mathcal{Z}\) depends on \(\mathcal{B}\) solely through \(m_{T}\), we apply the chain rule
 \begin{align}
-    \label{eq:chain_rule}
-    \frac{\partial \ln\mathcal{Z}}{\partial \mathcal{B}} = \frac{\partial \ln\mathcal{Z}}{\partial m_{T}} \frac{\partial m_{T}}{\partial \mathcal{B}}\,,\qquad
-    \frac{\partial m_{T}}{\partial \mathcal{B}} = -\frac{g|Q|s}{2m_{T}T^2}\,.
+ \label{eq:chain_rule}
+ \frac{\partial \ln\mathcal{Z}}{\partial \mathcal{B}} = \frac{\partial \ln\mathcal{Z}}{\partial m_{T}} \frac{\partial m_{T}}{\partial \mathcal{B}}\,,\qquad
+ \frac{\partial m_{T}}{\partial \mathcal{B}} = -\frac{g|Q|s}{2m_{T}T^2}\,.
 \end{align}
 Taking the derivative of the partition function with respect to \(m_{T}\), we write
 \begin{equation}
-    \frac{\partial \ln \mathcal{Z}}{\partial m_{T}} = \frac{2 n_\mathrm{C} V T^{3}}{3 (2\pi)^{2}} \sum_{s}^{\pm1/2}\sum_{\sigma}^{\pm1} \int_{0}^{\infty} dp_{T} \, \frac{\partial}{\partial m_{T}} \left( \frac{p_{T}^{4}}{\sqrt{p_{T}^{2} + m_{T}^{2}}} F\left(\sqrt{p_{T}^{2} + m_{T}^{2}} - \sigma \eta_{T} \right) \right).
+ \frac{\partial \ln \mathcal{Z}}{\partial m_{T}} = \frac{2 n_\mathrm{C} V T^{3}}{3 (2\pi)^{2}} \sum_{s}^{\pm1/2}\sum_{\sigma}^{\pm1} \int_{0}^{\infty} dp_{T} \, \frac{\partial}{\partial m_{T}} \left( \frac{p_{T}^{4}}{\sqrt{p_{T}^{2} + m_{T}^{2}}} F\left(\sqrt{p_{T}^{2} + m_{T}^{2}} - \sigma \eta_{T} \right) \right).
 \end{equation}
 Given that \(E_{T} = \sqrt{p_{T}^{2} + m_{T}^{2}}\), then, \(\partial E_{T} / \partial m_{T} = m_{T} / E_{T}\). The derivative of the integrand is computed using the product and chain rules
 \begin{equation}
-    \frac{\partial}{\partial m_{T}} \left( \frac{p_{T}^{4}}{E_{T}} F(E_{T} - \sigma\eta_{T}) \right) = \frac{p_{T}^{4}}{E_{T}} \frac{\partial F}{\partial E_{T}} \frac{\partial E_{T}}{\partial m_{T}} + F(E_{T} - \sigma\eta_{T}) \frac{\partial}{\partial m_{T}} \left( \frac{p_{T}^{4}}{E_{T}} \right).
+ \frac{\partial}{\partial m_{T}} \left( \frac{p_{T}^{4}}{E_{T}} F(E_{T} - \sigma\eta_{T}) \right) = \frac{p_{T}^{4}}{E_{T}} \frac{\partial F}{\partial E_{T}} \frac{\partial E_{T}}{\partial m_{T}} + F(E_{T} - \sigma\eta_{T}) \frac{\partial}{\partial m_{T}} \left( \frac{p_{T}^{4}}{E_{T}} \right).
 \end{equation}
 Hereafter we write \(F'=\partial F/\partial E_{T}\). The second term evaluates to
 \begin{equation}
-    \frac{\partial}{\partial m_{T}} \left( \frac{p_{T}^{4}}{E_{T}} \right) = -\frac{p_{T}^{4} m_{T}}{E_{T}^{3}}.
+ \frac{\partial}{\partial m_{T}} \left( \frac{p_{T}^{4}}{E_{T}} \right) = -\frac{p_{T}^{4} m_{T}}{E_{T}^{3}}.
 \end{equation}
 Substituting these results back, the integrand becomes
 \begin{equation}
-    \frac{\partial}{\partial m_{T}} \left( \frac{p_{T}^{4}}{E_{T}} F(E_{T} - \sigma\eta_{T}) \right) = \frac{p_{T}^{4} m_{T}}{E_{T}^{2}} F'(E_{T} - \sigma\eta_{T}) - \frac{p_{T}^{4} m_{T}}{E_{T}^{3}} F(E_{T} - \sigma\eta_{T}).
+ \frac{\partial}{\partial m_{T}} \left( \frac{p_{T}^{4}}{E_{T}} F(E_{T} - \sigma\eta_{T}) \right) = \frac{p_{T}^{4} m_{T}}{E_{T}^{2}} F'(E_{T} - \sigma\eta_{T}) - \frac{p_{T}^{4} m_{T}}{E_{T}^{3}} F(E_{T} - \sigma\eta_{T}).
 \end{equation}
 Replacing \(E_{T}\) with \(\sqrt{p_{T}^{2} + m_{T}^{2}}\), the derivative of \(\ln \mathcal{Z}\) is
 \begin{align}
-    \frac{\partial \ln \mathcal{Z}}{\partial m_{T}} &= \frac{2 n_\mathrm{C} V T^{3}}{3 (2\pi)^{2}} \sum_{s}^{\pm1/2}\sum_{\sigma}^{\pm1} \int_{0}^{\infty} dp_{T} \, p_{T}^{4} m_{T}
-    \left( \frac{F'\left( \sqrt{p_{T}^{2} + m_{T}^{2}} - \sigma\eta_{T} \right)}{p_{T}^{2} + m_{T}^{2}} - \frac{F\left( \sqrt{p_{T}^{2} + m_{T}^{2}} - \sigma\eta_{T} \right)}{(p_{T}^{2} + m_{T}^{2})^{3/2}} \right).
+ \frac{\partial \ln \mathcal{Z}}{\partial m_{T}} &= \frac{2 n_\mathrm{C} V T^{3}}{3 (2\pi)^{2}} \sum_{s}^{\pm1/2}\sum_{\sigma}^{\pm1} \int_{0}^{\infty} dp_{T} \, p_{T}^{4} m_{T}
+ \left( \frac{F'\left( \sqrt{p_{T}^{2} + m_{T}^{2}} - \sigma\eta_{T} \right)}{p_{T}^{2} + m_{T}^{2}} - \frac{F\left( \sqrt{p_{T}^{2} + m_{T}^{2}} - \sigma\eta_{T} \right)}{(p_{T}^{2} + m_{T}^{2})^{3/2}} \right).
 \end{align}
 This result provides the explicit form of \(\partial \ln \mathcal{Z}/\partial m_{T}\) in terms of \(F\) and its derivative \(F'\), with all dependencies on \(m_{T}\) and \(p_{T}\) made explicit.
 
@@ -321,17 +324,17 @@ F'(x) = \frac{dF}{dx} = -\frac{e^{x}}{(e^{x} + 1)^2} = -F(x)\left[1 - F(x)\right
 \end{equation}
 We replace \( F'(x) \) in the expression for the derivative of the integrand yielding
 \begin{align}
-    \notag
-    &\int_{0}^{\infty} dp_{T} \, p_{T}^{4} m_{T} \left( -\frac{F(E_{T} - \sigma\eta_{T})\left[1 - F(E_{T} - \sigma\eta_{T})\right]}{E_{T}^{2}} - \frac{F(E_{T} - \sigma\eta_{T})}{E_{T}^{3}} \right) =\\*
-    &\int_{m_{T}}^{\infty} dE_{T} \, \left(E_{T}^{2} - m_{T}^{2}\right)^{3/2} m_{T} \left( -\frac{F(E_{T} - \sigma\eta_{T})\left[1 - F(E_{T} - \sigma\eta_{T})\right]}{E_{T}} - \frac{F(E_{T} - \sigma\eta_{T})}{E_{T}^{2}} \right).
+ \notag
+ &\int_{0}^{\infty} dp_{T} \, p_{T}^{4} m_{T} \left( -\frac{F(E_{T} - \sigma\eta_{T})\left[1 - F(E_{T} - \sigma\eta_{T})\right]}{E_{T}^{2}} - \frac{F(E_{T} - \sigma\eta_{T})}{E_{T}^{3}} \right) =\\*
+ &\int_{m_{T}}^{\infty} dE_{T} \, \left(E_{T}^{2} - m_{T}^{2}\right)^{3/2} m_{T} \left( -\frac{F(E_{T} - \sigma\eta_{T})\left[1 - F(E_{T} - \sigma\eta_{T})\right]}{E_{T}} - \frac{F(E_{T} - \sigma\eta_{T})}{E_{T}^{2}} \right).
 \end{align}
 Substituting the expression for \(\partial \ln \mathcal{Z}/\partial m_{T}\) into \req{eq:magnetization_def} and \req{eq:chain_rule}, we obtain the magnetization
 \begin{align}
-    \notag
-    \mathcal{M} &= -\frac{g|Q|}{2 T}\cdot\frac{2 n_\mathrm{C} V T^{3}}{3 (2\pi)^{2}} \sum_{s}^{\pm1/2} s \sum_{\sigma}^{\pm1} \int_{m_{T}(s)}^{\infty} dE_{T} \, \left(E_{T}^{2} - m_{T}^{2}(s)\right)^{3/2} \\
-    \label{eq:mag_form}
-    &\times
-    \left[ \frac{F(E_{T} - \sigma\eta_{T})\left(1 - F(E_{T} - \sigma\eta_{T})\right)}{E_{T}} + \frac{F(E_{T} - \sigma\eta_{T})}{E_{T}^{2}} \right].
+ \notag
+ \mathcal{M} &= -\frac{g|Q|}{2 T}\cdot\frac{2 n_\mathrm{C} V T^{3}}{3 (2\pi)^{2}} \sum_{s}^{\pm1/2} s \sum_{\sigma}^{\pm1} \int_{m_{T}(s)}^{\infty} dE_{T} \, \left(E_{T}^{2} - m_{T}^{2}(s)\right)^{3/2} \\
+ \label{eq:mag_form}
+ &\times
+ \left[ \frac{F(E_{T} - \sigma\eta_{T})\left(1 - F(E_{T} - \sigma\eta_{T})\right)}{E_{T}} + \frac{F(E_{T} - \sigma\eta_{T})}{E_{T}^{2}} \right].
 \end{align}
 Much how we expect the free energy to be \(\ln\mathcal{Z}\sim T^{3}\), we see the magnetization is \(\mathcal{M}\sim T^{2}\) via dimensional analysis. This is in agreement to our prior work~\cite{Steinmetz:2023nsc,Steinmetz:2023ucp} where we evaluated the magnetization in the Boltzmann limit~\cite{Steinmetz:2023nsc} with \(T\ll m_e\). The benefit of expressing the magnetization in the form of \req{eq:mag_form} is that the integrand within the brackets \([\ldots]\) entirely contains the Fermi-Dirac distribution scaled by energy without mass (or magnetic fields) except as a boundary condition on the integration. This makes it suitable for numerical evaluation and comparison to the Boltzmann limit which will be the subject of future work.
 
@@ -341,13 +344,13 @@ Much how we expect the free energy to be \(\ln\mathcal{Z}\sim T^{3}\), we see th
 %%%%%%%%%%%%%%%%%%%%%%%%
 In this work we have proposed a theoretical framework for evaluating the spin magnetization of a quark-gluon plasma (QGP) under conditions akin to those of the primordial Universe. By employing a grand partition function formalism (see \req{eq:parts}) and rigorously evaluating magnetized Fermi-Dirac integrals, both in their standard and dimensionless forms (Eqs.\,(\ref{eq:dimensionless_partition})--(\ref{eq:dimensionless_partition2})), we derived explicit expressions that capture the dependence of the magnetization on temperature, particle masses, and magnetic field strength. Notably, our analysis shows that the magnetization scales as \(T^2\) (cf. \req{eq:mag_form}), in agreement with the expected thermodynamic behavior of a relativistic gas in three spatial dimensions.
 
-Our estimates indicate that even a modest degree of spin polarization in the light-quark and electron-positron sectors could lead to cosmic magnetic fields of enormous magnitude. Ferromagnetic-like response, if facilitated by the strong coupling among quarks, would potentially generate fields on the order of \(10^{16}\) Tesla. These values exceed both the critical Schwinger field and the characteristic surface fields of magnetars by several orders of magnitude, underscoring the potential significance of spin magnetization in the primordial plasma. However, such fields remain in the bounds found at this high temperature extrapolating back in time the large scale magnetic fields of present day (cf. Fig.~\ref{Figure_1}).
+Our estimates indicate that a modest degree of spin polarization in the light-quark and electron-positron sectors could lead to cosmic magnetic fields of enormous magnitude. This suggests that strong polarization domains can randomly aid to create relevant large scale structure fields. Such a ferromagnetic-like response, if facilitated by the strong coupling among quarks, could generate fields on the order of \(10^{16}\) Tesla. These values exceed both the critical Schwinger field and the characteristic surface fields of magnetars by several orders of magnitude, underscoring the potential significance of spin magnetization in the primordial QGP plasma. However, such fields remain in the bounds found at this high temperature extrapolating back in time the large scale magnetic fields of present day (cf. Fig.~\ref{Figure_1}).
 
-While the present treatment considers an idealized, free fermion gas, with the magnetization defined in \req{eq:dipole}, it provides a starting point for future investigations incorporate additional physical effects such as QCD interactions, finite volume corrections, and non-equilibrium dynamics. Moreover, exploring the interplay between spin magnetization and other cosmological processes (such as baryogenesis, leptogenesis, and the evolution of large-scale magnetic fields) remains an important avenue for further research.
+While the present treatment considers an idealized, free fermion gas, with the magnetization defined in \req{eq:dipole}, it provides a starting point for future investigations to incorporate additional physical effects such as QCD interactions, finite volume corrections, and non-equilibrium dynamics. Moreover, exploring the interplay between spin magnetization and other cosmological processes (such as baryogenesis, leptogenesis, and the evolution of large-scale magnetic fields) remains an important avenue for further research.\\
 
 %%%%%%%%%%%%%%%%%%%%%%%%%%%%%%%%%%%%%%%%%%%%
 \textbf{Acknowledgment:} 
-One of us (JR) thanks Tamas Bir\'o and the Wigner Hun-Ren Research Center for their kind hospitality in Budapest during the PP2024 conference, supported by NKFIH (Hungarian National Office for Research, Development and Innovation) under awards 2022-2.1.1-NL-2022-00002 and 2020-2.1.1-ED-2024-00314. This meeting and the related research report motivate the presentation of these recently obtained results. This work is not supported by any sponsor.
+One of us (JR) thanks Tamas Bir\'o and the Wigner Hun-Ren Research Center for their kind hospitality in Budapest during the PP2024 conference, supported by NKFIH (Hungarian National Office for Research, Development and Innovation) under awards 2022-2.1.1-NL-2022-00002 and 2020-2.1.1-ED-2024-00314. This meeting and the related research report motivate the presentation of these recently obtained results. The authors and this work is not supported by any sponsor.
 
 %%%%%%%%%%%%%%%%%%%%%%%%%
 %%%%%%%%%%%%%%%%%%%%%%%%
